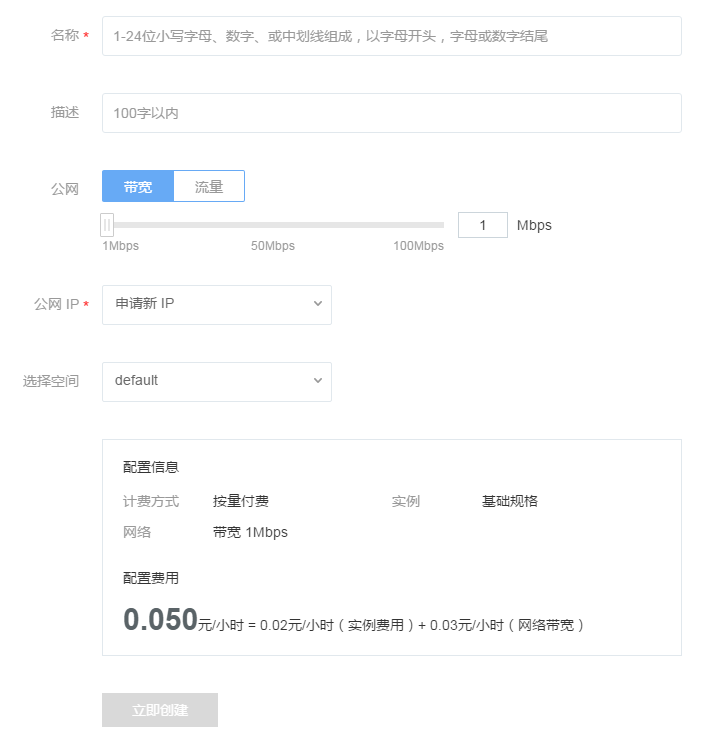
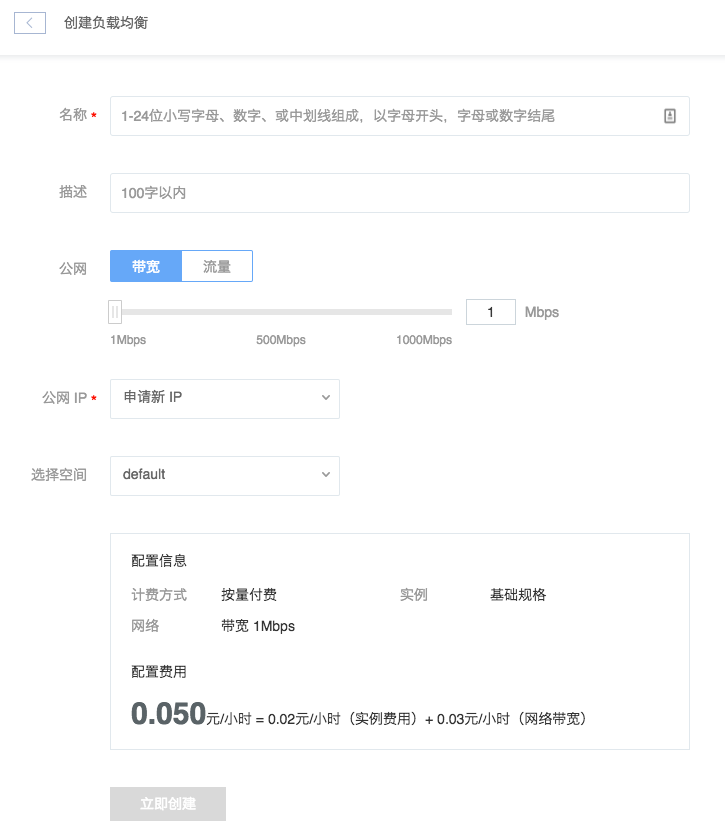
Enhanment:nlb support 1000Mbps

diff --git a/容器服务/负载均衡/使用指南/创建负载均衡.md b/容器服务/负载均衡/使用指南/创建负载均衡.md
@@ -4,8 +4,9 @@
 
 ![](../image/创建负载均衡-创建.png)
 
-注：请选择正确的空间，负载均衡的后端服务必须对应空间 -> [如何创建空间](http://support.c.163.com/md.html#!容器服务/服务管理/使用指南/创建无状态服务.md)
-
+注：
+* 请选择正确的空间，负载均衡的后端服务必须对应空间 -> [如何创建空间](http://support.c.163.com/md.html#!容器服务/服务管理/使用指南/创建无状态服务.md)
+* 目前最高支持带宽 1000 Mbps
 
 ## 创建监听
 
